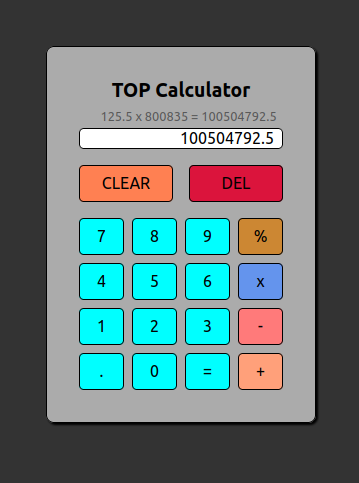
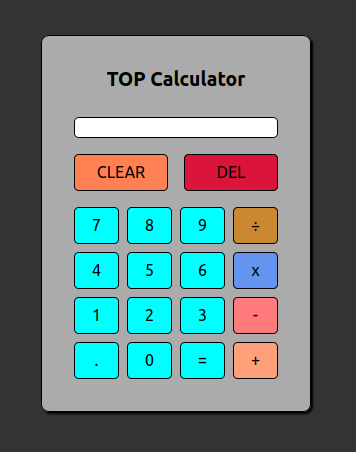
updated readme and image

Changed region(s): [[0.1854, 0.3407, 0.8034, 0.8363], [0.0927, 0.0619, 0.8961, 0.9292], [0.1854, 0.1549, 0.8034, 0.3097]]

diff --git a/README.md b/README.md
@@ -6,13 +6,15 @@ A simple Calculator written in HTML, CSS and JavaScript. Based on the "The Odin 
 
 ## Features
 
-- [x] Simple but nice UI that should fit all display sizes
-- [x] Shows last calculation after result
-- [x] subtle Animation when result is calculated
 - [x] Addition / Subtraction / Multiplication / Division
+- [x] Floating point / Decimal number support
+- [x] Negative Number support
 - [x] CLEAR button to reset the calculator
 - [x] DEL button to delete last entry
+- [x] Shows last calculation after result
 - [x] Keyboard control
+- [x] Simple but nice UI that should fit all display sizes
+- [x] subtle Animation when result is calculated
 
 ## Image
 
